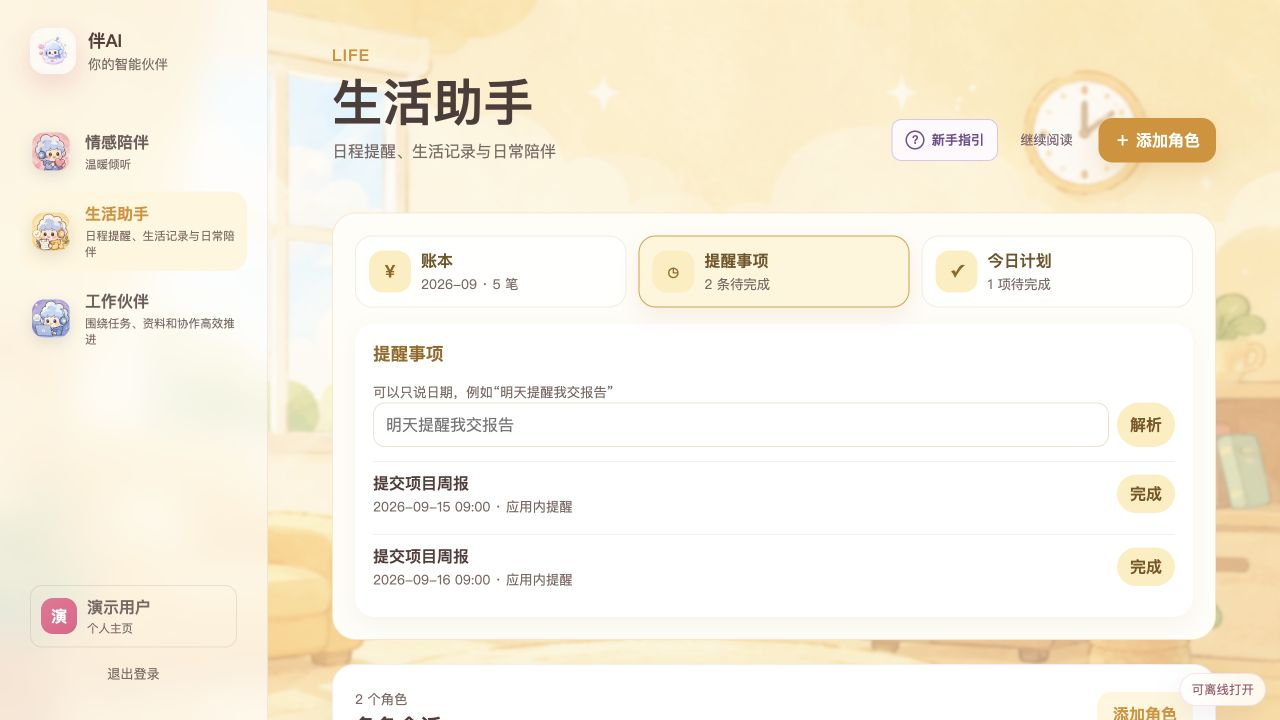
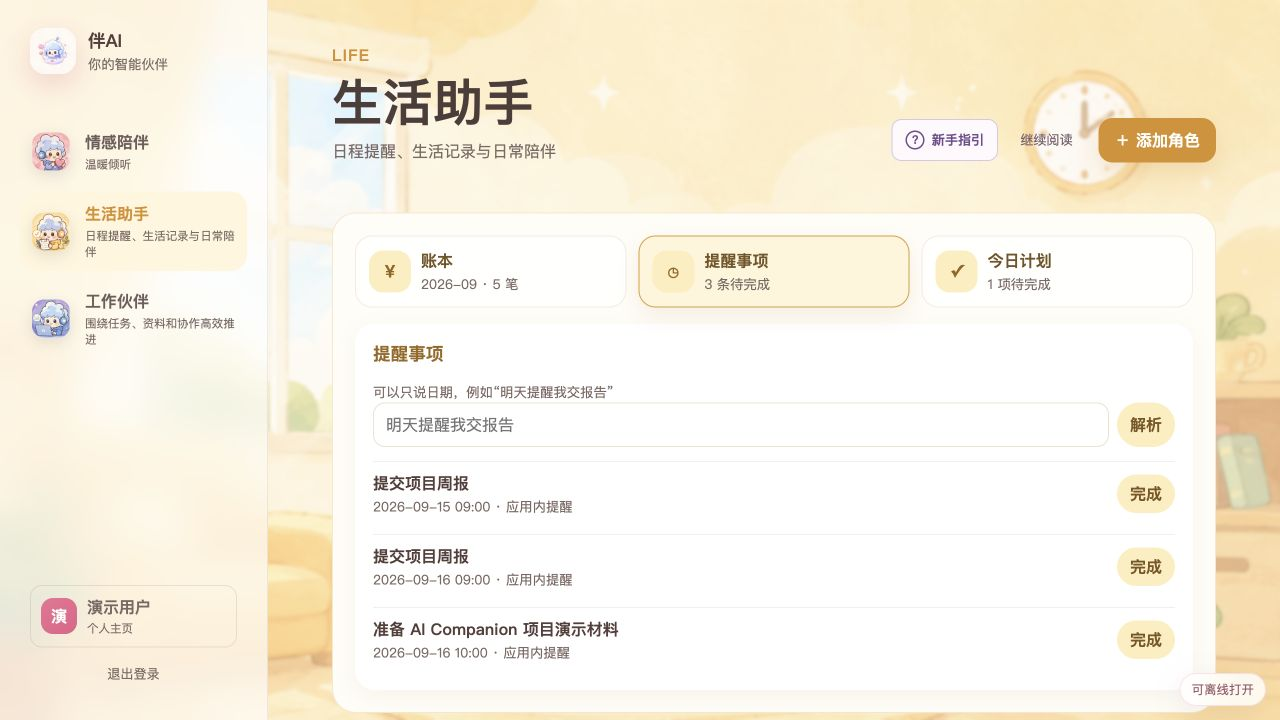
docs: add reminder conversation verification

Changed region(s): [[0.25, 0.8556, 0.9688, 1.0]]

diff --git a/README.md b/README.md
@@ -36,15 +36,19 @@ The user describes an expense amount, purpose, and category directly in chat. Th
 
 #### Result verification: ledger and reminder records
 
-Completed tool actions are reflected in their dedicated product views instead of existing only as chat messages. The ledger summarizes monthly income, expenses, and balance while showing the newly written CNY 18.00 entry; the reminder view preserves each title, trigger time, and notification channel for continued management.
+Completed tool actions are reflected in their dedicated product views instead of existing only as chat messages. The ledger summarizes monthly income, expenses, and balance while showing the newly written CNY 18.00 entry. The reminder demo first creates “Prepare AI Companion demo materials” in chat, then verifies the matching title, trigger time, and notification channel in the reminder view.
 
 **Ledger record**
 
 ![Life ledger with the conversation-created expense and monthly totals](docs/images/readme/life-ledger-result.jpg)
 
-**Reminder records**
+**Reminder conversation**
 
-![Life reminders with the project-report reminder and trigger time](docs/images/readme/life-reminder-result.jpg)
+![Life-assistant conversation successfully creating a reminder](docs/images/readme/life-reminder-conversation.jpg)
+
+**Persisted reminder verification**
+
+![Life reminders with the conversation-created demo-materials reminder and trigger time](docs/images/readme/life-reminder-result.jpg)
 
 ### Governed Skills and parallel Agent execution
 

diff --git a/README.zh-CN.md b/README.zh-CN.md
@@ -42,15 +42,19 @@
 
 #### 结果验证：账本与提醒记录
 
-对话执行完成后，业务结果会同步进入对应功能页，而不只停留在聊天消息中。账本页汇总当月笔数、收入、支出与结余，并展示本次写入的 ¥18.00 消费记录；提醒事项页则保留标题、触发时间和通知渠道，便于继续完成或管理。
+对话执行完成后，业务结果会同步进入对应功能页，而不只停留在聊天消息中。账本页汇总当月笔数、收入、支出与结余，并展示本次写入的 ¥18.00 消费记录。提醒演示则先通过对话创建“准备 AI Companion 项目演示材料”，再进入提醒事项页验证同名记录、触发时间和通知渠道。
 
 **账本记录**
 
 ![生活助手账本：对话写入后的消费记录与月度汇总](docs/images/readme/life-ledger-result.jpg)
 
-**提醒事项**
+**提醒事项对话**
 
-![生活助手提醒：已创建的项目周报提醒及触发时间](docs/images/readme/life-reminder-result.jpg)
+![生活助手对话：通过自然语言成功创建提醒](docs/images/readme/life-reminder-conversation.jpg)
+
+**提醒事项落库验证**
+
+![生活助手提醒：对话创建的演示材料提醒及触发时间](docs/images/readme/life-reminder-result.jpg)
 
 ### 工作伙伴：Skill 工作台与可治理执行
 
